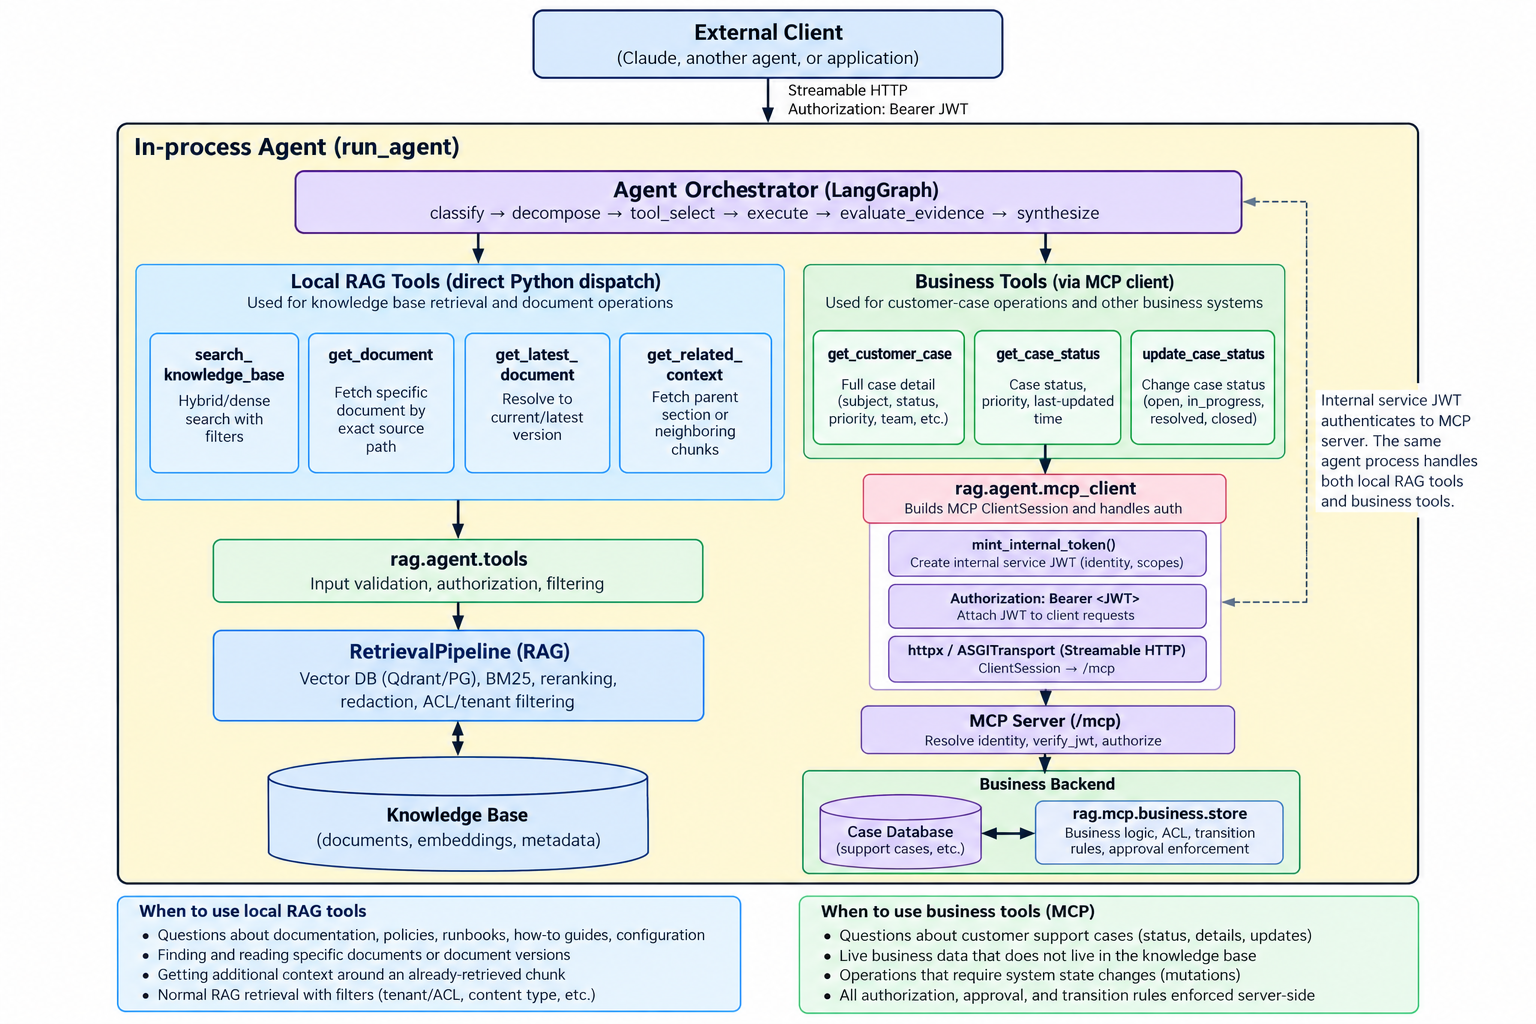
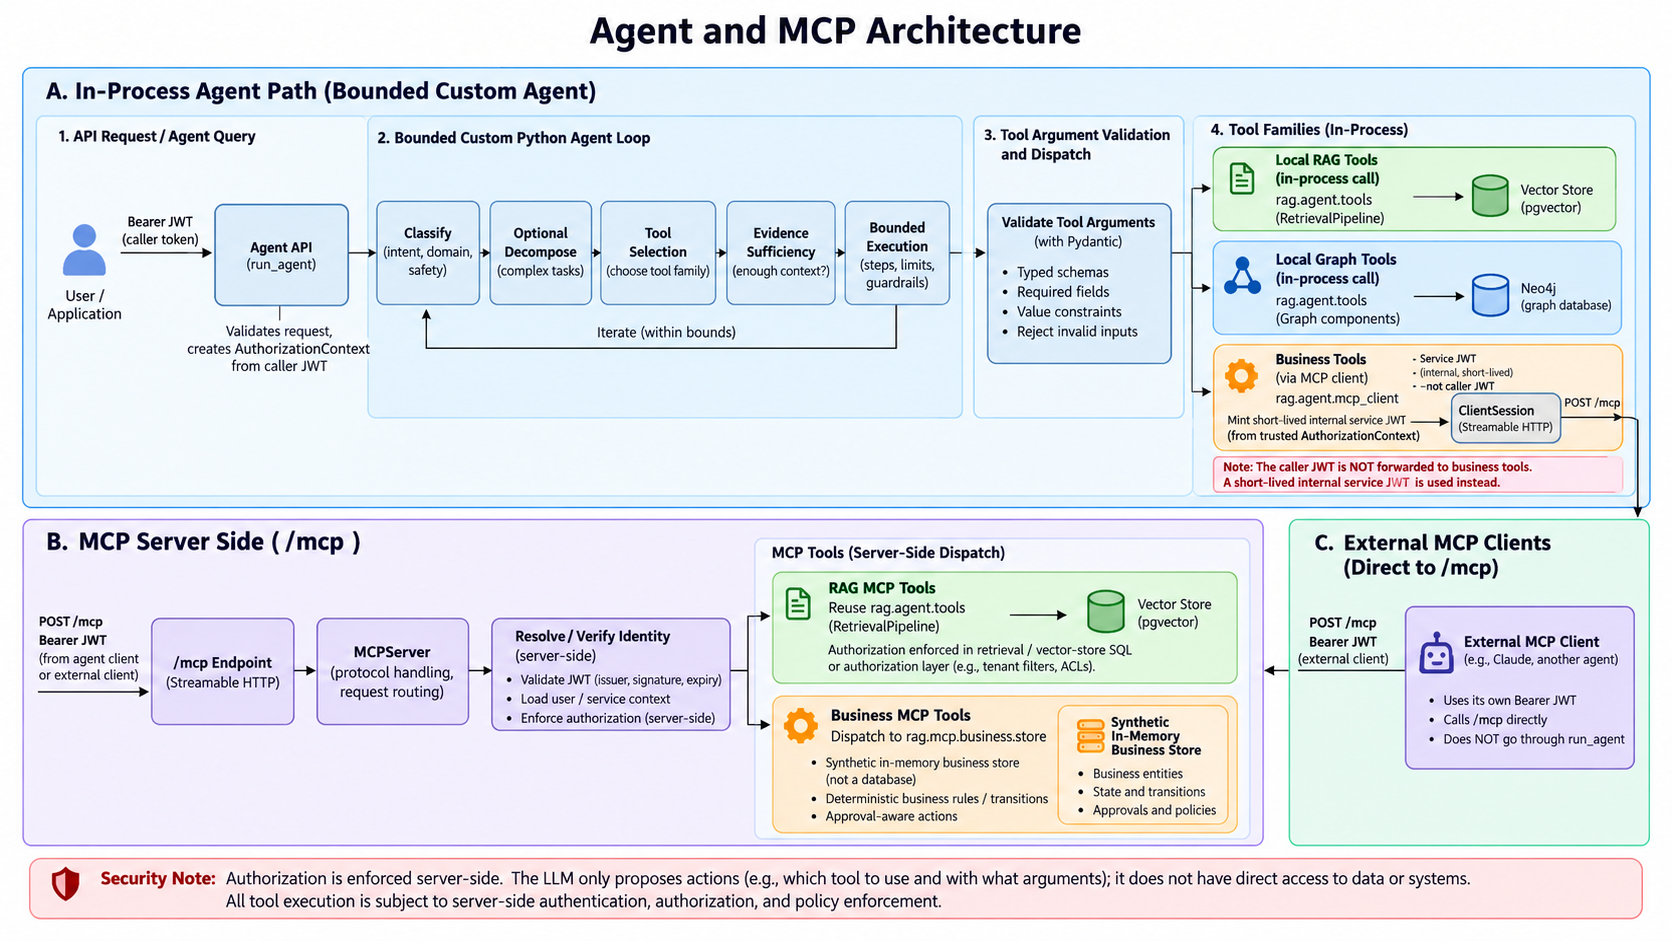
docs: replace the system, agent/MCP and multimodal diagrams
Replaces the three assets under their existing filenames and rewrites the notes
beside them, dropping the old OCR, Jira/Confluence and Context-Engineering-is-
planned disclaimers. The new images still simplify a few things; each page says
exactly where the diagram differs from the code.

diff --git a/docs/index.md b/docs/index.md
@@ -12,27 +12,18 @@ that live in the repository (`README.md`, `docs/architecture.md`,
 `docs/metrics.md`, and `src/rag/**`), so it stays in sync with the code
 without duplicating it.
 
-![Local RAG System architecture: users and clients through authentication
-and access control, query processing, routing to classic RAG or the
-bounded agent harness, evidence sources (documents, retrieval stack,
-graph/semantic layer, MCP tools), context engineering, Ollama
-generation, response generation, evaluation/feedback, observability, and
-deployment/infrastructure](assets/architecture-diagram.png)
+![Local RAG System architecture: Web UI, REST API and documentation entry points; classic RAG and bounded agent as alternative runtime paths with three agent tool families; retrieval stack and knowledge graph; context engineering; Ollama generation; cross-cutting security, observability and evaluation; Docker Compose deployment](assets/architecture-diagram.png)
 
-A few pieces of this diagram are ahead of what's implemented today, not
-built capabilities: **Context Engineering** (the whole token-budget
-stage) is planned next, today context sizing is three explicit cutoffs;
-see [Retrieval](topics/retrieval.md), not a dedicated
-collect/filter/score/pack pipeline. **OCR for scanned documents** doesn't
-exist; PDF/DOCX parsing extracts existing text/tables/structure, it
-doesn't read text out of a scanned image with no text layer.
-**Alerting** isn't wired up either, Prometheus/Grafana exist, but
-nothing pages on a threshold today (see [Metrics](metrics.md)). The
-"Integrations (Confluence, Jira, etc.)" and "Custom tools (search,
-calculators, workflows)" boxes describe the *shape* the tool layer could
-extend to, not systems this project actually connects to; MCP's real
-tools today are the four RAG tools plus a synthetic, in-memory
-customer-support case store (see [MCP](topics/mcp.md)).
+Where this diagram differs from the code: prompt-injection detection only flags
+content (telemetry and prompt reinforcement), it filters nothing. Ollama runs
+natively on the host, not in Compose, and Neo4j and monitoring are opt-in Compose
+overlays. The Web UI has no graph explorer. OpenTelemetry carries traces only
+(metrics are Prometheus, logs are structured JSON). Trust and freshness select
+document versions and filter by trust level; they do not validate content. Graph
+tools are search, entity, neighbors and dependency path, with no analytics. The MCP
+business tools use one in-process server and a synthetic, in-memory case store.
+Hybrid retrieval, reranking and Context Engineering are opt-in; the defaults are
+dense retrieval, no reranker, and Context Engineering off.
 
 ## Start here
 

diff --git a/README.md b/README.md
@@ -89,24 +89,18 @@ generated API reference:
 
 ## Architecture
 
-![Local RAG System architecture: users and clients through authentication
-and access control, query processing, routing to classic RAG or the
-bounded agent harness, evidence sources (documents, retrieval stack,
-graph/semantic layer, MCP tools), context engineering, Ollama
-generation, response generation, evaluation/feedback, observability, and
-deployment/infrastructure](docs/assets/architecture-diagram.png)
+![Local RAG System architecture: Web UI, REST API and documentation entry points; classic RAG and bounded agent as alternative runtime paths with three agent tool families; retrieval stack and knowledge graph; context engineering; Ollama generation; cross-cutting security, observability and evaluation; Docker Compose deployment](docs/assets/architecture-diagram.png)
 
-A few pieces of this diagram are ahead of what's implemented today, not
-built capabilities: **OCR for scanned documents** doesn't exist; PDF/DOCX parsing
-extracts existing text/tables/structure, it doesn't read text out of a
-scanned image with no text layer. **Alerting** isn't wired up either,
-Prometheus/Grafana exist, but nothing pages on a threshold today (see
-`docs/metrics.md`). The "Integrations (Confluence, Jira, etc.)" and
-"Custom tools (search, calculators, workflows)" boxes describe the
-*shape* `POST /agent/query`'s tool layer and `API/SDK` access could
-extend to, not systems this project actually connects to; MCP's real
-tools today are the four RAG tools plus a synthetic, in-memory
-customer-support case store (see [MCP](#mcp)).
+Where this diagram differs from the code: prompt-injection detection only flags
+content (telemetry and prompt reinforcement), it filters nothing. Ollama runs
+natively on the host, not in Compose, and Neo4j and monitoring are opt-in Compose
+overlays. The Web UI has no graph explorer. OpenTelemetry carries traces only
+(metrics are Prometheus, logs are structured JSON). Trust and freshness select
+document versions and filter by trust level; they do not validate content. Graph
+tools are search, entity, neighbors and dependency path, with no analytics. The MCP
+business tools use one in-process server and a synthetic, in-memory case store.
+Hybrid retrieval, reranking and Context Engineering are opt-in; the defaults are
+dense retrieval, no reranker, and Context Engineering off.
 
 | Area | Default implementation | Notes |
 |---|---|---|

diff --git a/docs/topics/mcp.md b/docs/topics/mcp.md
@@ -9,9 +9,9 @@ active on the MCP path and cannot be bypassed by an MCP tool call, the
 same guarantee [Agentic RAG](agentic-rag.md) makes for the in-process
 agent; see [Security](security.md) for the control-by-control breakdown.
 
-![Agent and MCP architecture: local RAG tools dispatched in Python, business tools through the MCP client and server](../assets/agent-mcp-architecture.png)
+![Agent and MCP architecture: the bounded in-process agent with direct RAG and graph tools and business tools through the MCP client; the /mcp server verifying identity and dispatching to rag.agent.tools or rag.mcp.business.store; external MCP clients calling /mcp directly](../assets/agent-mcp-architecture.png)
 
-The agent dispatches the local RAG and graph tools directly in Python, and the three business tools through `rag.agent.mcp_client`, which mints a short-lived internal service JWT and calls the MCP server (in-process ASGI transport by default); the server resolves identity and dispatches to `rag.mcp.business.store`. The orchestrator is the custom bounded loop in `rag.agent.graph` (not LangGraph), storage is Postgres + pgvector, and external MCP clients call `/mcp` directly.
+Business tools reach the server through `rag.agent.mcp_client`, which mints a short-lived internal service JWT from the trusted `AuthorizationContext` (in-process ASGI transport by default); the caller's JWT is never forwarded. One label overstates the code: classify makes a single routing decision (simple or complex, with a deterministic override for case-change requests), not an intent, domain and safety classification.
 
 ## The four RAG tools
 

diff --git a/docs/topics/multimodal.md b/docs/topics/multimodal.md
@@ -17,9 +17,9 @@ Full design writeups:
 - [Layout-Aware Document Ingestion and Vision](../architecture.md#layout-aware-document-ingestion-and-vision)
 - API reference: [Vision](../reference/vision.md), [Loaders](../reference/loaders.md), [Chunkers](../reference/chunkers.md)
 
-![Multimodal and layout-aware ingestion: loaders, normalized structure, typed chunks, optional vision, and relationship expansion](../assets/multimodal-ingestion-flow.png)
+![Multimodal document ingestion pipeline: layout-aware PDF and DOCX extraction, Markdown, HTML and text loading, typed chunks with metadata, optional Ollama vision sibling chunks, Postgres + pgvector storage, and query-time relationship expansion](../assets/multimodal-ingestion-flow.png)
 
-PDF and DOCX loaders serialize their layout into the same Markdown-equivalent structure Markdown files already use, which the chunker splits into typed chunks (prose, table, code/config, chart, image) with structural metadata. Optional local vision adds a description as a sibling chunk, and relationship expansion appends parent/neighbor context at query time.
+Where this diagram differs from the code: a chart chunk is a fenced `text` block with an emphasized caption, never derived from an image. HTML and plain text use the prose chunker, so they produce only prose chunks. "Hybrid" means dense plus BM25 fused by RRF, and is opt-in (metadata filters apply either way). Context Engineering is off by default, and orders by freshness, authority and rank with `begin_end_sandwich` placement, not by section or page.
 
 ## Multimodal ingestion: images, relationships, and gold evaluation
 

diff --git a/docs/architecture.md b/docs/architecture.md
@@ -741,19 +741,14 @@ calls and never go through MCP.
 
 ### Architecture
 
-![Agent and MCP architecture: run_agent dispatches the four local RAG
-tools directly in Python to RetrievalPipeline and the knowledge base, and
-the business tools through rag.agent.mcp_client, which mints an internal
-service JWT and calls the /mcp server over Streamable HTTP; the server
-resolves identity, verifies the JWT, and dispatches to
-rag.mcp.business.store](assets/agent-mcp-architecture.png)
+![Agent and MCP architecture: the bounded in-process agent with direct RAG and graph
+tools and business tools through the MCP client; the /mcp server verifying identity
+and dispatching to rag.agent.tools or rag.mcp.business.store; external MCP clients
+calling /mcp directly](assets/agent-mcp-architecture.png)
 
-Reading the diagram against the code: the orchestrator is the custom
-bounded loop in `rag.agent.graph`, not LangGraph (LangGraph exists only
-on the `experiment/langgraph-agent` branch); the vector store is
-Postgres + pgvector only; and an external MCP client (Claude Desktop,
-another agent) calls the `/mcp` server directly, the same endpoint the
-agent's own MCP client reaches, rather than calling `run_agent`.
+One label overstates the code: classify makes a single routing decision (simple or
+complex, with a deterministic override for case-change requests), not an intent,
+domain and safety classification.
 
 `rag.mcp.asgi.build_mcp_asgi_app` wraps the `MCPServer` in a Starlette app
 that `rag.api.main` mounts at `mcp.server.mount_path` (default `/mcp`),
